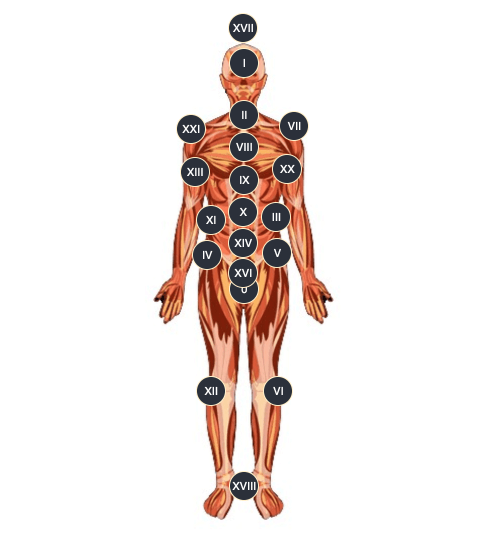
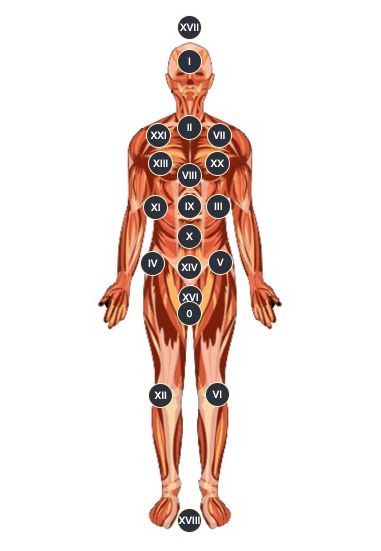
tarot-82

Changed region(s): [[0.2598, 0.0, 0.7507, 0.9814]]

diff --git a/wp-content/themes/mobile/style.css b/wp-content/themes/mobile/style.css
@@ -412,10 +412,10 @@ span.menu_item_img
   color: #fff;
   border-radius: 50%;
   display: inline-block;
-  width: 30px;
-  height: 30px;
-  padding-top: 7px;
-  font-size: 11px;
+  width: 25px;
+  height: 25px;
+  padding-top: 4px;
+  font-size: 10px;
   font-weight: 500;
   position: absolute;
   margin: auto;

diff --git a/wp-content/themes/mobile/index.php b/wp-content/themes/mobile/index.php
@@ -218,6 +218,16 @@
 												<div
 													data-toggle="modal" 
 													data-target="#card_modal" 
+													data-card="<?php echo get_template_directory_uri(); ?>/img/cards/world.png"
+													class="zone zone_movable draggable draggable_d2">XXI</div>
+												<div
+													data-toggle="modal" 
+													data-target="#card_modal" 
+													data-card="<?php echo get_template_directory_uri(); ?>/img/cards/death.png"
+													class="zone zone_movable draggable draggable_d2_1">XIII</div>
+												<div
+													data-toggle="modal" 
+													data-target="#card_modal" 
 													data-card="<?php echo get_template_directory_uri(); ?>/img/cards/justice.png"
 													class="zone zone_movable draggable draggable_d3">XI</div>
 												<div
@@ -230,16 +240,6 @@
 													data-target="#card_modal" 
 													data-card="<?php echo get_template_directory_uri(); ?>/img/cards/hanged_man.png"
 													class="zone zone_movable draggable draggable_d5">XII</div>
-												<div
-													data-toggle="modal" 
-													data-target="#card_modal" 
-													data-card="<?php echo get_template_directory_uri(); ?>/img/cards/world.png"
-													class="zone zone_movable draggable draggable_d2">XXI</div>
-												<div
-													data-toggle="modal" 
-													data-target="#card_modal" 
-													data-card="<?php echo get_template_directory_uri(); ?>/img/cards/death.png"
-													class="zone zone_movable draggable draggable_d2_1">XIII</div>
 												<!-- <div class="zone zone_movable draggable draggable_d6">D6</div> -->
 												<!-- <div class="zone zone_final zone_x hidden"></div> -->
 											</div>
@@ -278,13 +278,13 @@
 												<div 
 													data-toggle="modal" 
 													data-target="#card_modal" 
-													data-card="<?php echo get_template_directory_uri(); ?>/img/cards/temperance.png"
-													class="zone zone_movable draggable draggable_v4-5">XIV</div>
+													data-card="<?php echo get_template_directory_uri(); ?>/img/cards/fool.png"
+													class="zone zone_movable draggable draggable_v5">0</div>
 												<div 
 													data-toggle="modal" 
 													data-target="#card_modal" 
-													data-card="<?php echo get_template_directory_uri(); ?>/img/cards/fool.png"
-													class="zone zone_movable draggable draggable_v5">0</div>
+													data-card="<?php echo get_template_directory_uri(); ?>/img/cards/temperance.png"
+													class="zone zone_movable draggable draggable_v4-5">XIV</div>
 												<div 
 													data-toggle="modal" 
 													data-target="#card_modal" 
